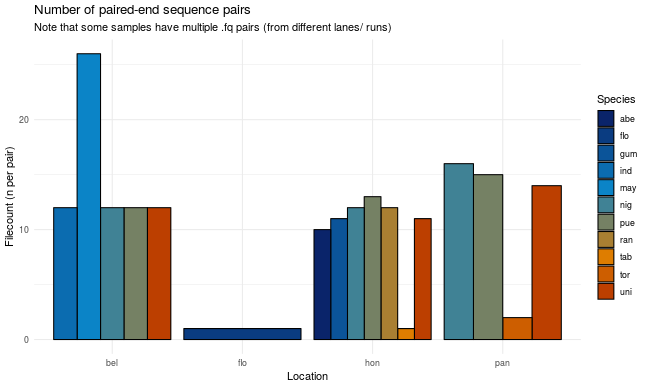
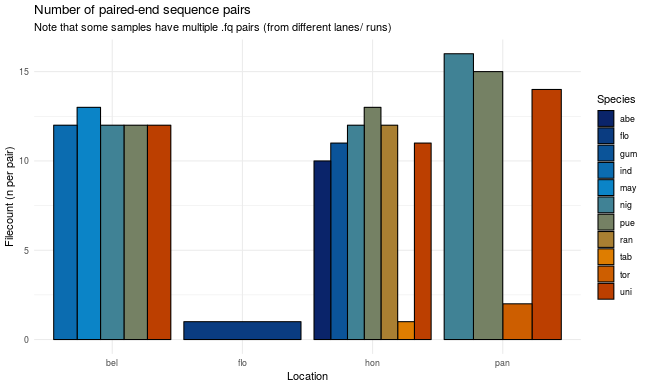
update metadata Readme

diff --git a/metadata/README.md b/metadata/README.md
@@ -21,11 +21,11 @@ Summary on *per-file* (pair) basis:
 
 | Location| abe| flo| gum| ind| may| nig| pue| ran| tab| tor| uni| Total| Species|
 |--------:|---:|---:|---:|---:|---:|---:|---:|---:|---:|---:|---:|-----:|-------:|
-|   Belize|    |    |    |  12|  26|  12|  12|    |    |    |  12|    74|       5|
+|   Belize|    |    |    |  12|  13|  12|  12|    |    |    |  12|    61|       5|
 |  Florida|    |   1|    |    |    |    |    |    |    |    |    |     1|       1|
 | Honduras|  10|    |  11|    |    |  12|  13|  12|   1|    |  11|    70|       7|
 |   Panama|    |    |    |    |    |  16|  15|    |    |   2|  14|    47|       4|
-|    Total|  10|   1|  11|  12|  26|  40|  40|  12|   1|   2|  37|   192|      11|
+|    Total|  10|   1|  11|  12|  13|  40|  40|  12|   1|   2|  37|   179|      11|
 
 Summary on *per-sample-id* basis:
 
